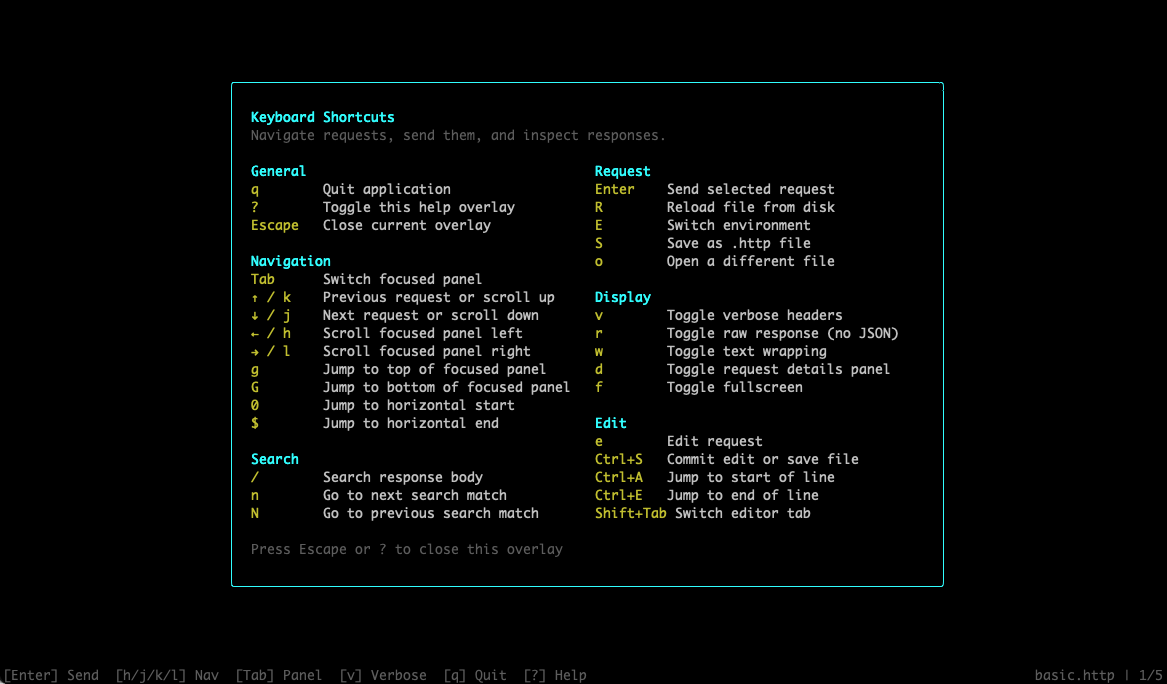
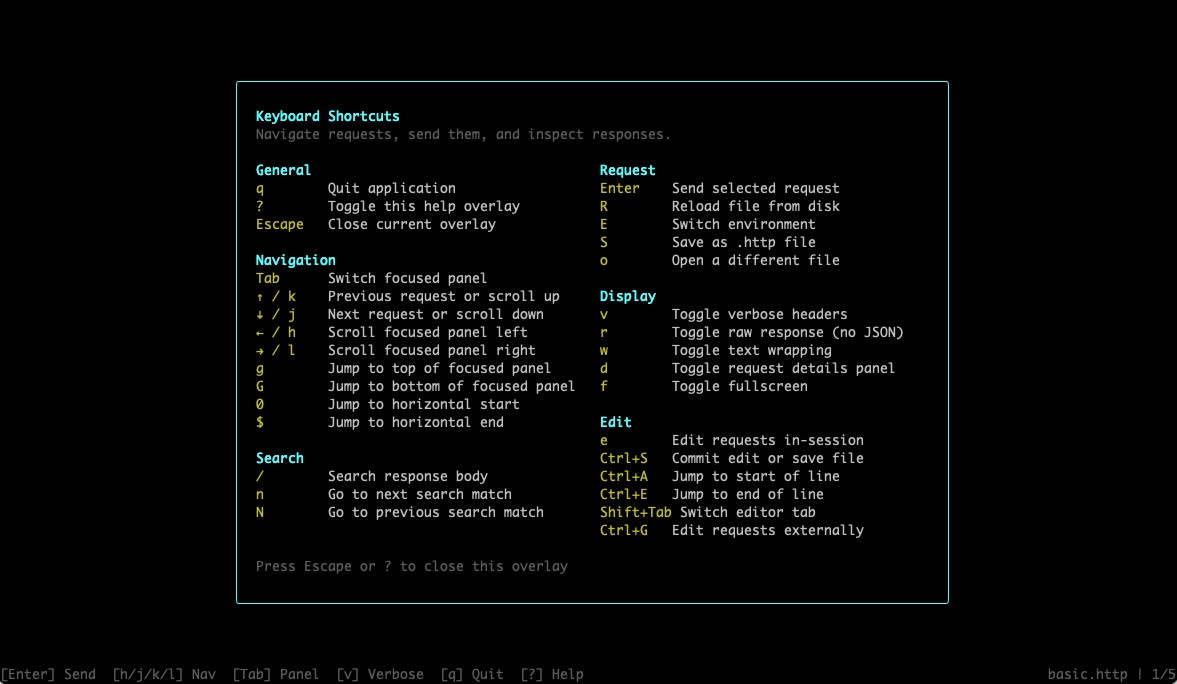
Adjust shortcut description a little

diff --git a/src/core/shortcuts.ts b/src/core/shortcuts.ts
@@ -49,12 +49,12 @@ export const SHORTCUTS: readonly Shortcut[] = [
   { key: 'n', label: '', description: 'Go to next search match', showInBar: false, showInHelp: true, group: 'search' },
   { key: 'N', label: '', description: 'Go to previous search match', showInBar: false, showInHelp: true, group: 'search' },
   { key: 'o', label: '', description: 'Open a different file', showInBar: false, showInHelp: true, group: 'request' },
-  { key: 'e', label: '', description: 'Edit request', showInBar: false, showInHelp: true, group: 'edit' },
+  { key: 'e', label: '', description: 'Edit requests in-session', showInBar: false, showInHelp: true, group: 'edit' },
   { key: 'f', label: '', description: 'Toggle fullscreen', showInBar: false, showInHelp: true, group: 'display' },
   { key: 'Ctrl+S', label: '', description: 'Commit edit or save file', showInBar: false, showInHelp: true, group: 'edit' },
   { key: 'Ctrl+A', label: '', description: 'Jump to start of line', showInBar: false, showInHelp: true, group: 'edit' },
   { key: 'Ctrl+E', label: '', description: 'Jump to end of line', showInBar: false, showInHelp: true, group: 'edit' },
-  { key: 'Ctrl+G', label: '', description: 'Open source file in $EDITOR', showInBar: false, showInHelp: true, group: 'edit' },
   { key: 'Shift+Tab', label: '', description: 'Switch editor tab', showInBar: false, showInHelp: true, group: 'edit' },
+  { key: 'Ctrl+G', label: '', description: 'Edit requests externally', showInBar: false, showInHelp: true, group: 'edit' },
   { key: 'Escape', label: '', description: 'Close current overlay', showInBar: false, showInHelp: true, group: 'general' },
 ] as const;

diff --git a/test/core/shortcuts.test.ts b/test/core/shortcuts.test.ts
@@ -109,7 +109,7 @@ describe('SHORTCUTS registry — edit-request entry', () => {
     const entry = SHORTCUTS.find((s) => s.key === 'e');
     expect(entry).toBeDefined();
     expect(entry?.label).toBe('');
-    expect(entry?.description).toBe('Edit request');
+    expect(entry?.description).toBe('Edit requests in-session');
     expect(entry?.showInBar).toBe(false);
     expect(entry?.showInHelp).toBe(true);
     expect(entry?.group).toBe('edit');
@@ -181,11 +181,11 @@ describe('SHORTCUTS registry — edit group', () => {
 });
 
 describe('SHORTCUTS registry — editor-handoff entry', () => {
-  it('contains the `Ctrl+G` entry (open source file in $EDITOR)', () => {
+  it('contains the `Ctrl+G` entry (edit requests externally)', () => {
     const entry = SHORTCUTS.find((s) => s.key === 'Ctrl+G');
     expect(entry).toBeDefined();
     expect(entry?.label).toBe('');
-    expect(entry?.description).toBe('Open source file in $EDITOR');
+    expect(entry?.description).toBe('Edit requests externally');
     expect(entry?.showInBar).toBe(false);
     expect(entry?.showInHelp).toBe(true);
     expect(entry?.group).toBe('edit');
@@ -199,6 +199,6 @@ describe('SHORTCUTS registry — editor-handoff entry', () => {
   it('appears in the help overlay Edit group with its description', () => {
     const helpEntries = SHORTCUTS.filter((s) => s.showInHelp && s.group === 'edit');
     const entry = helpEntries.find((s) => s.key === 'Ctrl+G');
-    expect(entry?.description).toBe('Open source file in $EDITOR');
+    expect(entry?.description).toBe('Edit requests externally');
   });
 });

diff --git a/openspec/specs/shortcuts/spec.md b/openspec/specs/shortcuts/spec.md
@@ -211,11 +211,11 @@ The `SHORTCUTS` array in `src/core/shortcuts.ts` SHALL include an entry for the 
 - **THEN** the `S` entry SHALL appear with key `S` in yellow (padded to 8 characters) and description `Save as .http file` in white, within the Request group
 
 ### Requirement: Edit request shortcut in registry
-The `SHORTCUTS` array in `src/core/shortcuts.ts` SHALL include an entry for the request-edit command with the following properties: `key: 'e'`, `label: ''` (empty, consistent with help-only entries like `o`, `R`, and `S`), `description: 'Edit request URL or body'`, `showInBar: false`, `showInHelp: true`, and `group: 'edit'`.
+The `SHORTCUTS` array in `src/core/shortcuts.ts` SHALL include an entry for the request-edit command with the following properties: `key: 'e'`, `label: ''` (empty, consistent with help-only entries like `o`, `R`, and `S`), `description: 'Edit requests in-session'`, `showInBar: false`, `showInHelp: true`, and `group: 'edit'`.
 
 #### Scenario: Registry contains e entry
 - **WHEN** the `SHORTCUTS` array is inspected
-- **THEN** it SHALL contain an entry with `key` equal to `'e'`, `description` equal to `'Edit request URL or body'`, `showInBar` equal to `false`, `showInHelp` equal to `true`, and `group` equal to `'edit'`
+- **THEN** it SHALL contain an entry with `key` equal to `'e'`, `description` equal to `'Edit requests in-session'`, `showInBar` equal to `false`, `showInHelp` equal to `true`, and `group` equal to `'edit'`
 
 #### Scenario: Edit shortcut not in status bar
 - **WHEN** the StatusBar component renders
@@ -223,7 +223,7 @@ The `SHORTCUTS` array in `src/core/shortcuts.ts` SHALL include an entry for the 
 
 #### Scenario: Edit shortcut in help overlay
 - **WHEN** the help overlay is visible
-- **THEN** the `e` entry SHALL appear with key `e` in yellow (padded to 8 characters) and description `Edit request URL or body` in white, within the Edit group
+- **THEN** the `e` entry SHALL appear with key `e` in yellow (padded to 8 characters) and description `Edit requests in-session` in white, within the Edit group
 
 ### Requirement: Edit shortcut group in registry
 The `SHORTCUTS` array in `src/core/shortcuts.ts` SHALL include an `edit` group with four entries: `e` (edit request), `Ctrl+S` (save and close editor), `Ctrl+A` (jump to start of line), and `Ctrl+E` (jump to end of line). Each entry SHALL have `showInBar: false`, `showInHelp: true`, and `group: 'edit'`. The `ShortcutGroup` union and `SHORTCUT_GROUP_LABELS` SHALL include `edit` with the label `'Edit'`.

diff --git a/openspec/changes/add-editor-handoff/specs/shortcuts/spec.md b/openspec/changes/add-editor-handoff/specs/shortcuts/spec.md
@@ -2,7 +2,7 @@
 
 ### Requirement: External editor handoff shortcut in registry
 
-The `SHORTCUTS` array in `src/core/shortcuts.ts` SHALL include an entry for the external editor handoff command with the following properties: `key: 'Ctrl+G'`, `label: ''` (empty, consistent with the other `edit`-group entries), `description: 'Open source file in $EDITOR'`, `showInBar: false`, `showInHelp: true`, and `group: 'edit'`.
+The `SHORTCUTS` array in `src/core/shortcuts.ts` SHALL include an entry for the external editor handoff command with the following properties: `key: 'Ctrl+G'`, `label: ''` (empty, consistent with the other `edit`-group entries), `description: 'Edit requests externally'`, `showInBar: false`, `showInHelp: true`, and `group: 'edit'`.
 
 #### Scenario: Registry contains the external editor entry
 

diff --git a/README.md b/README.md
@@ -138,12 +138,12 @@ httptui api.http -E Staging
 
 | Key | Action                             |
 |-----|------------------------------------|
-| `e` | Edit request URL, headers, or body |
+| `e` | Edit a request in-session          |
 | `Shift+Tab` | Switch editor tab |
 | `Ctrl+S` | Commit edit or save to source file |
 | `Ctrl+A` | Jump to start of line              |
 | `Ctrl+E` | Jump to end of line                |
-| `Ctrl+G` | Open source file in `$EDITOR`       |
+| `Ctrl+G` | Edit requests in external editor `$EDITOR`  |
 
 ## Documentation
 
